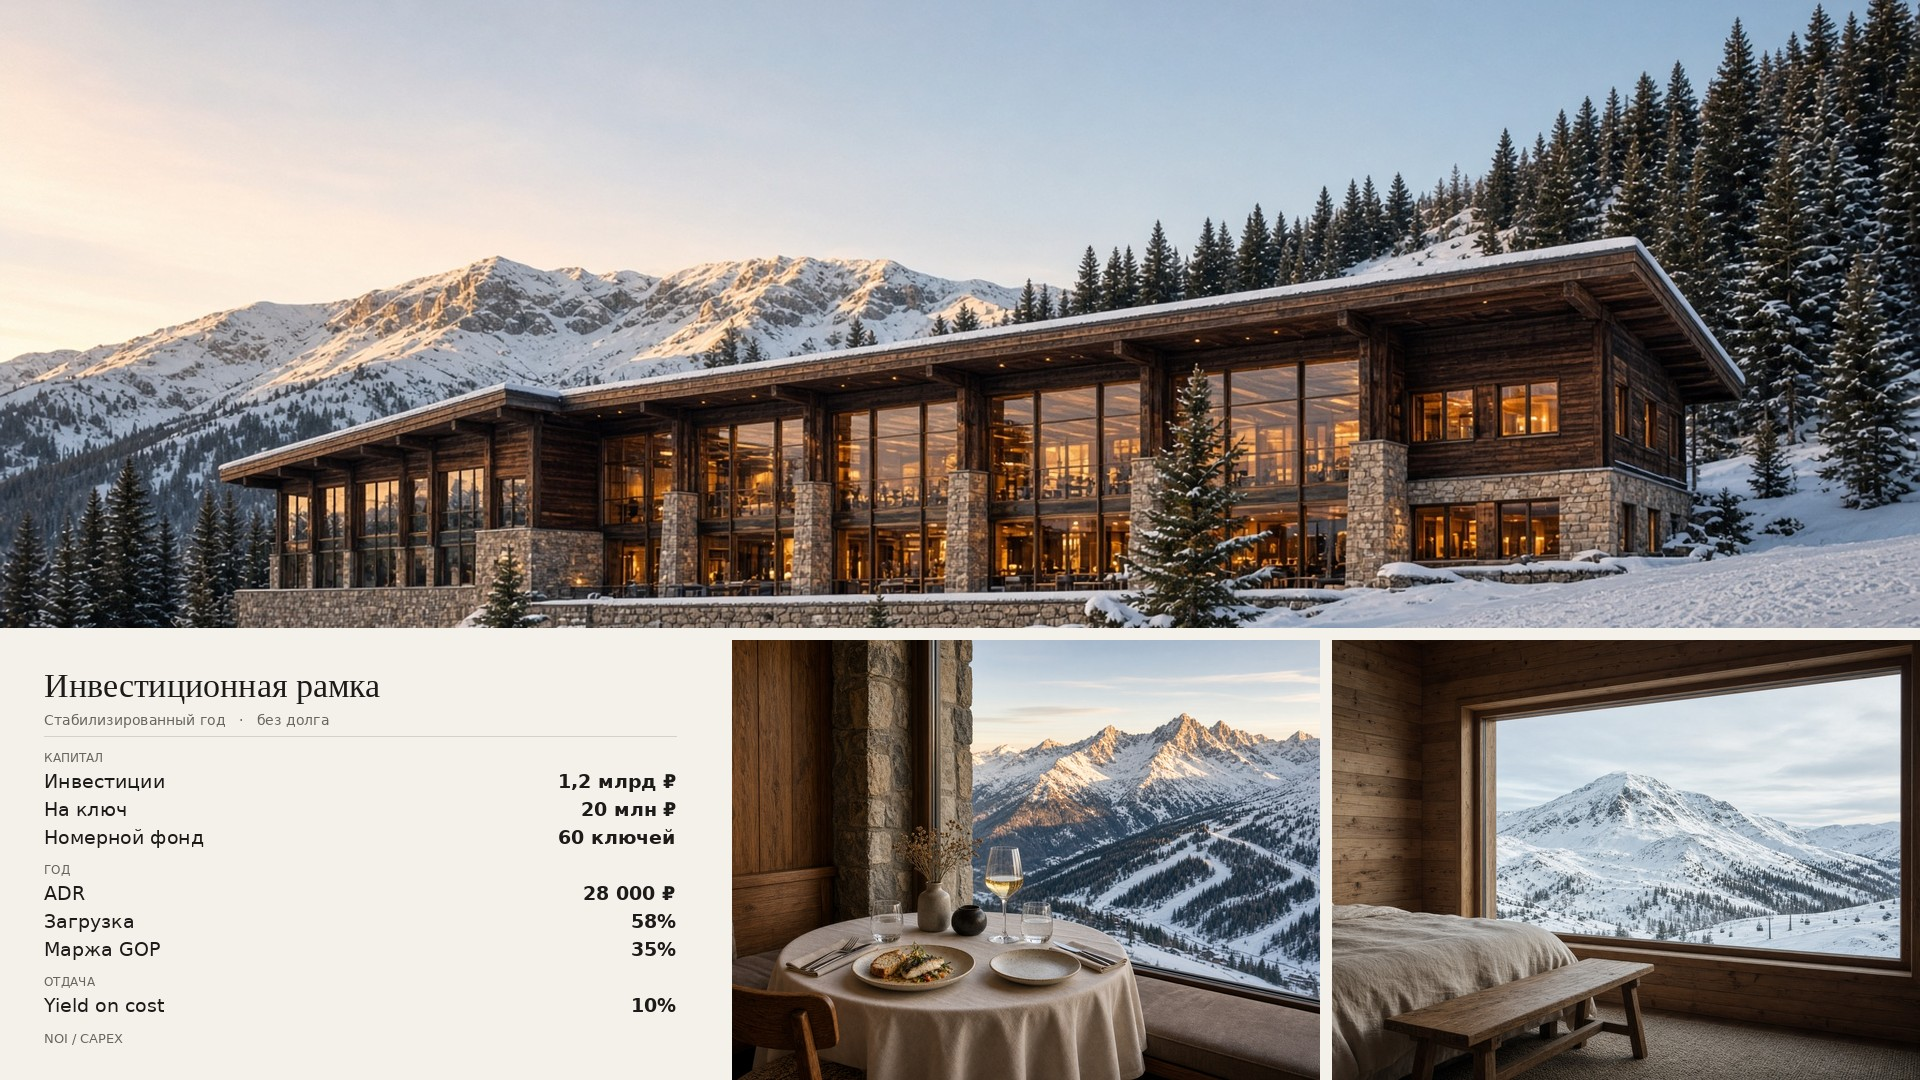
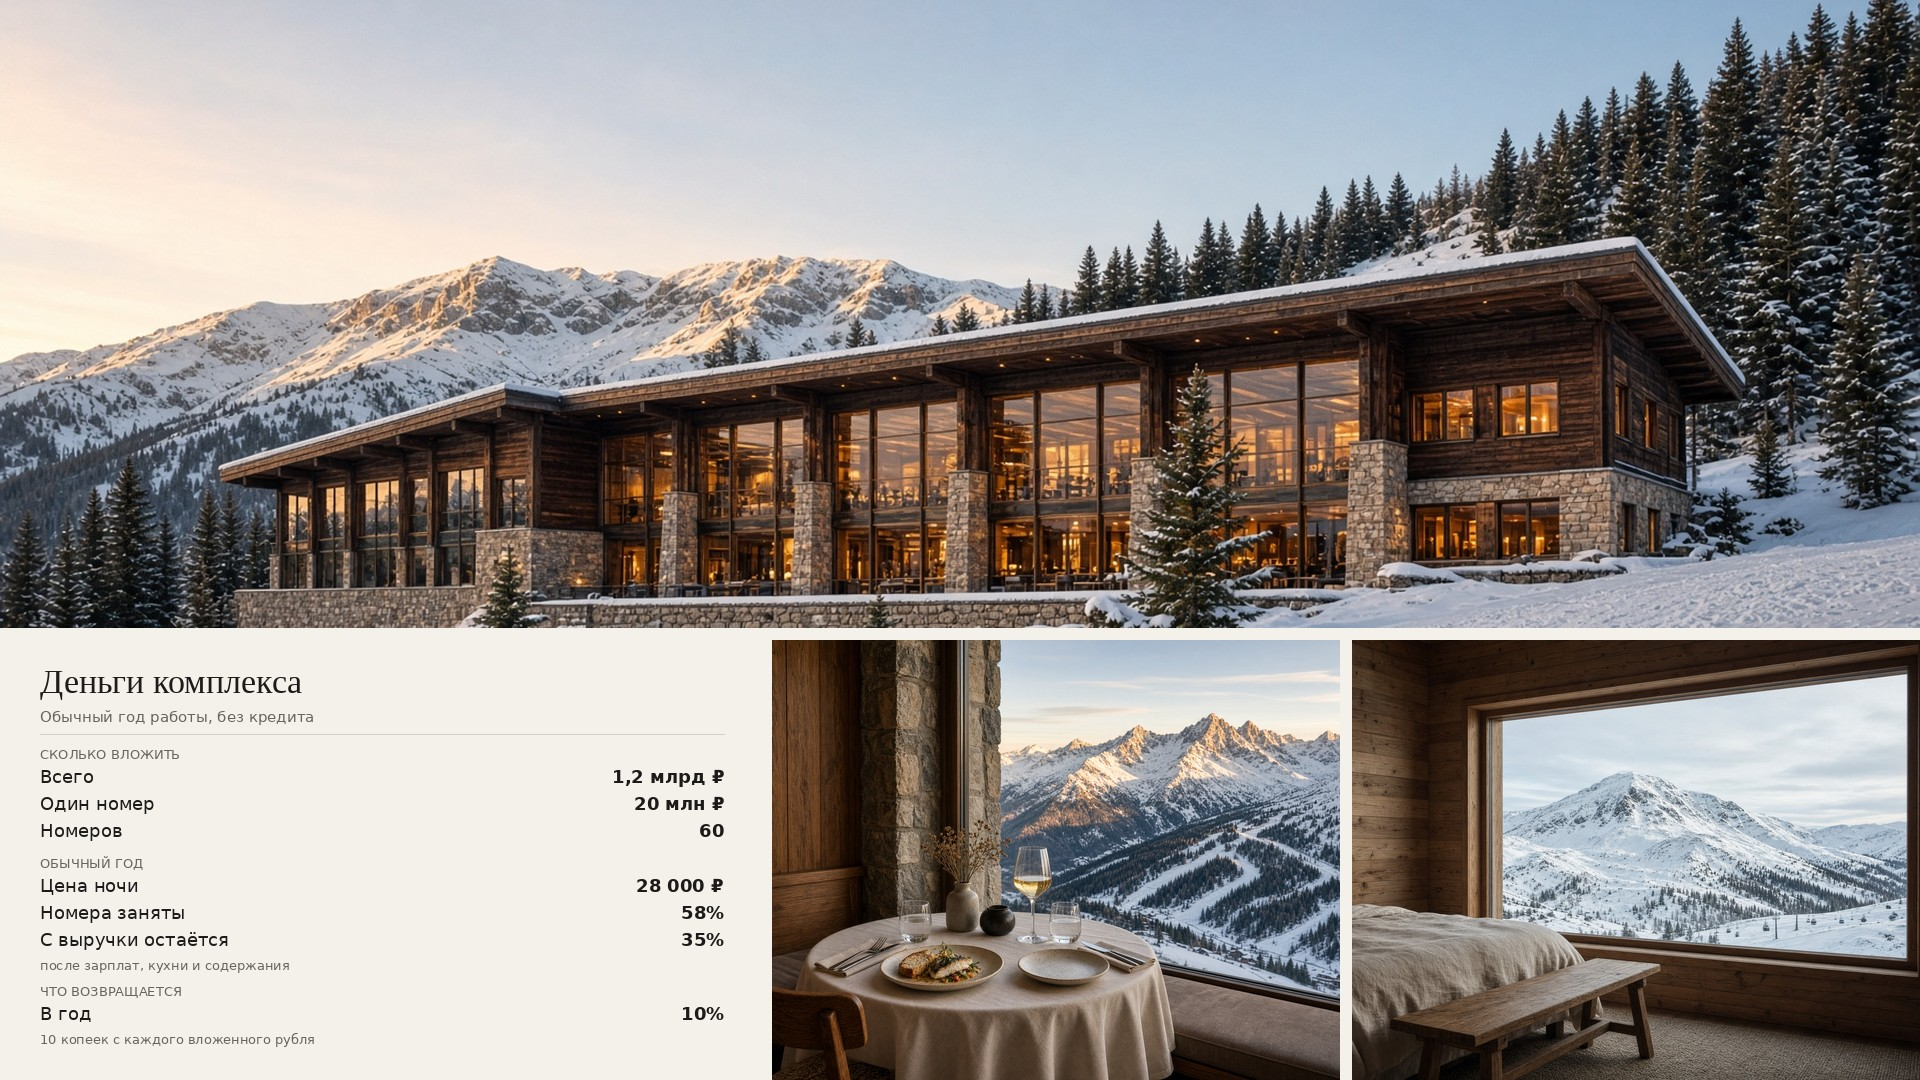
Визионерская концепция: деньги комплекса простым языком.

Changed region(s): [[0.2812, 0.5806, 1.0, 1.0], [0.0, 0.6111, 0.1875, 0.9778]]

diff --git a/sites/irina-architecture/app/napravleniya/hospitality/[slug]/page.tsx b/sites/irina-architecture/app/napravleniya/hospitality/[slug]/page.tsx
@@ -34,7 +34,7 @@ export default async function HospitalityService({ params }: Props) {
         <span>{service.number} / {String(hospitalityServices.length).padStart(2, "0")}</span>
       </nav>
       <ProductLead kicker={service.number} title={service.title} quote={service.lead ?? service.description} />
-      <div className={`${styles.detailVisual} ${service.slug === "vision" ? styles.detailBoard : ""}`}><img src={sitePath(service.slug === "vision" ? "/assets/vision-board.jpg" : service.image)} alt={service.slug === "vision" ? "Инвестиционная рамка горного отеля" : service.alt} fetchPriority="high" /></div>
+      <div className={`${styles.detailVisual} ${service.slug === "vision" ? styles.detailBoard : ""}`}><img src={sitePath(service.slug === "vision" ? "/assets/vision-board.jpg" : service.image)} alt={service.slug === "vision" ? "Деньги комплекса: горный отель, ресторан и спальня" : service.alt} fetchPriority="high" /></div>
       <div className={styles.detailSections}>
         {service.blocks.map((block, index) => (
           <section key={block.heading} className={styles.detailSection} aria-labelledby={`block-${index}`}>
